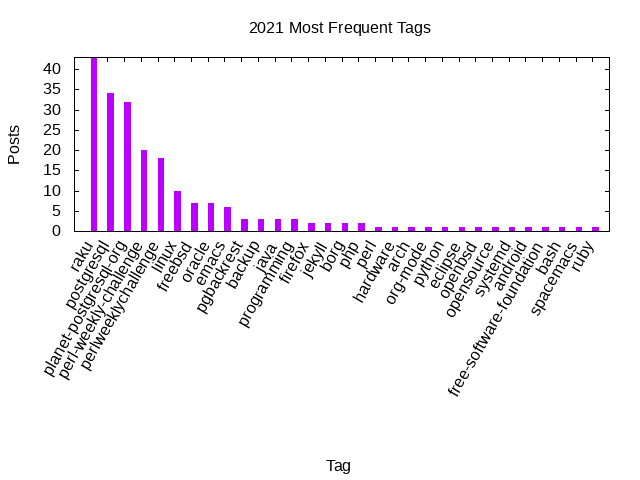
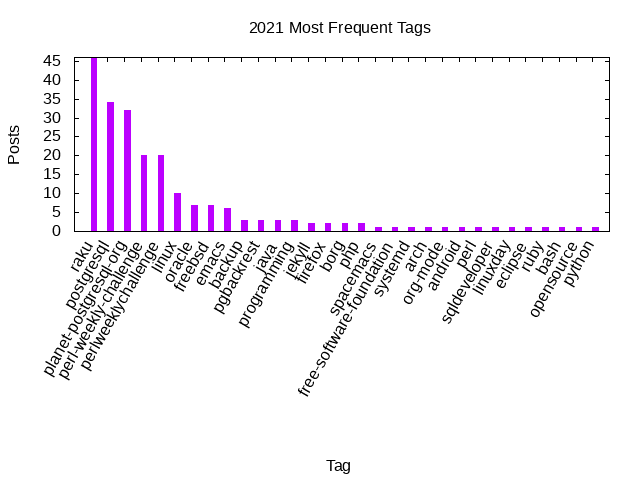
Stats update

diff --git a/_includes/stats/2021.md b/_includes/stats/2021.md
@@ -1,41 +1,41 @@
 <a name="2021" />
 ## 2021 (work in progress)
 
-**100 total posts** have been written on 2021.
-There have been *34 different tags* used, the most
+**103 total posts** have been written on 2021.
+There have been *35 different tags* used, the most
 popular being (sorted by number of posts):
  
-- *raku* (43 posts)  
+- *raku* (46 posts)  
 - *postgresql* (34 posts)  
 - *planet-postgresql-org* (32 posts)  
 - *perl-weekly-challenge* (20 posts)  
-- *perlweeklychallenge* (18 posts)  
+- *perlweeklychallenge* (20 posts)  
 - *linux* (10 posts)  
-- *freebsd* (7 posts)  
 - *oracle* (7 posts)  
+- *freebsd* (7 posts)  
 - *emacs* (6 posts)  
-- *pgbackrest* (3 posts)  
 - *backup* (3 posts)  
+- *pgbackrest* (3 posts)  
 - *java* (3 posts)  
 - *programming* (3 posts)  
-- *firefox* (2 posts)  
 - *jekyll* (2 posts)  
+- *firefox* (2 posts)  
 - *borg* (2 posts)  
 - *php* (2 posts)  
-- *perl* (1 posts)  
-- *hardware* (1 posts)  
+- *spacemacs* (1 posts)  
+- *free-software-foundation* (1 posts)  
+- *systemd* (1 posts)  
 - *arch* (1 posts)  
 - *org-mode* (1 posts)  
-- *python* (1 posts)  
-- *eclipse* (1 posts)  
-- *openbsd* (1 posts)  
-- *opensource* (1 posts)  
-- *systemd* (1 posts)  
 - *android* (1 posts)  
-- *free-software-foundation* (1 posts)  
+- *perl* (1 posts)  
+- *sqldeveloper* (1 posts)  
+- *linuxday* (1 posts)  
+- *eclipse* (1 posts)  
+- *ruby* (1 posts)  
 - *bash* (1 posts)  
-- *spacemacs* (1 posts)  
-- *ruby* (1 posts).<br/>
+- *opensource* (1 posts)  
+- *python* (1 posts).<br/>
 <br/>
 The following is the overall 2021 post ratio by month:
 <br/>
@@ -54,7 +54,7 @@ The following is the overall 2021 post ratio by tag (showing max 30 tags):
 
 <div align="right">
 <small>
-Last generated on 2021-10-11 at 14:51
+Last generated on 2021-10-25 at 15:52
 </small>
 </div>
 
